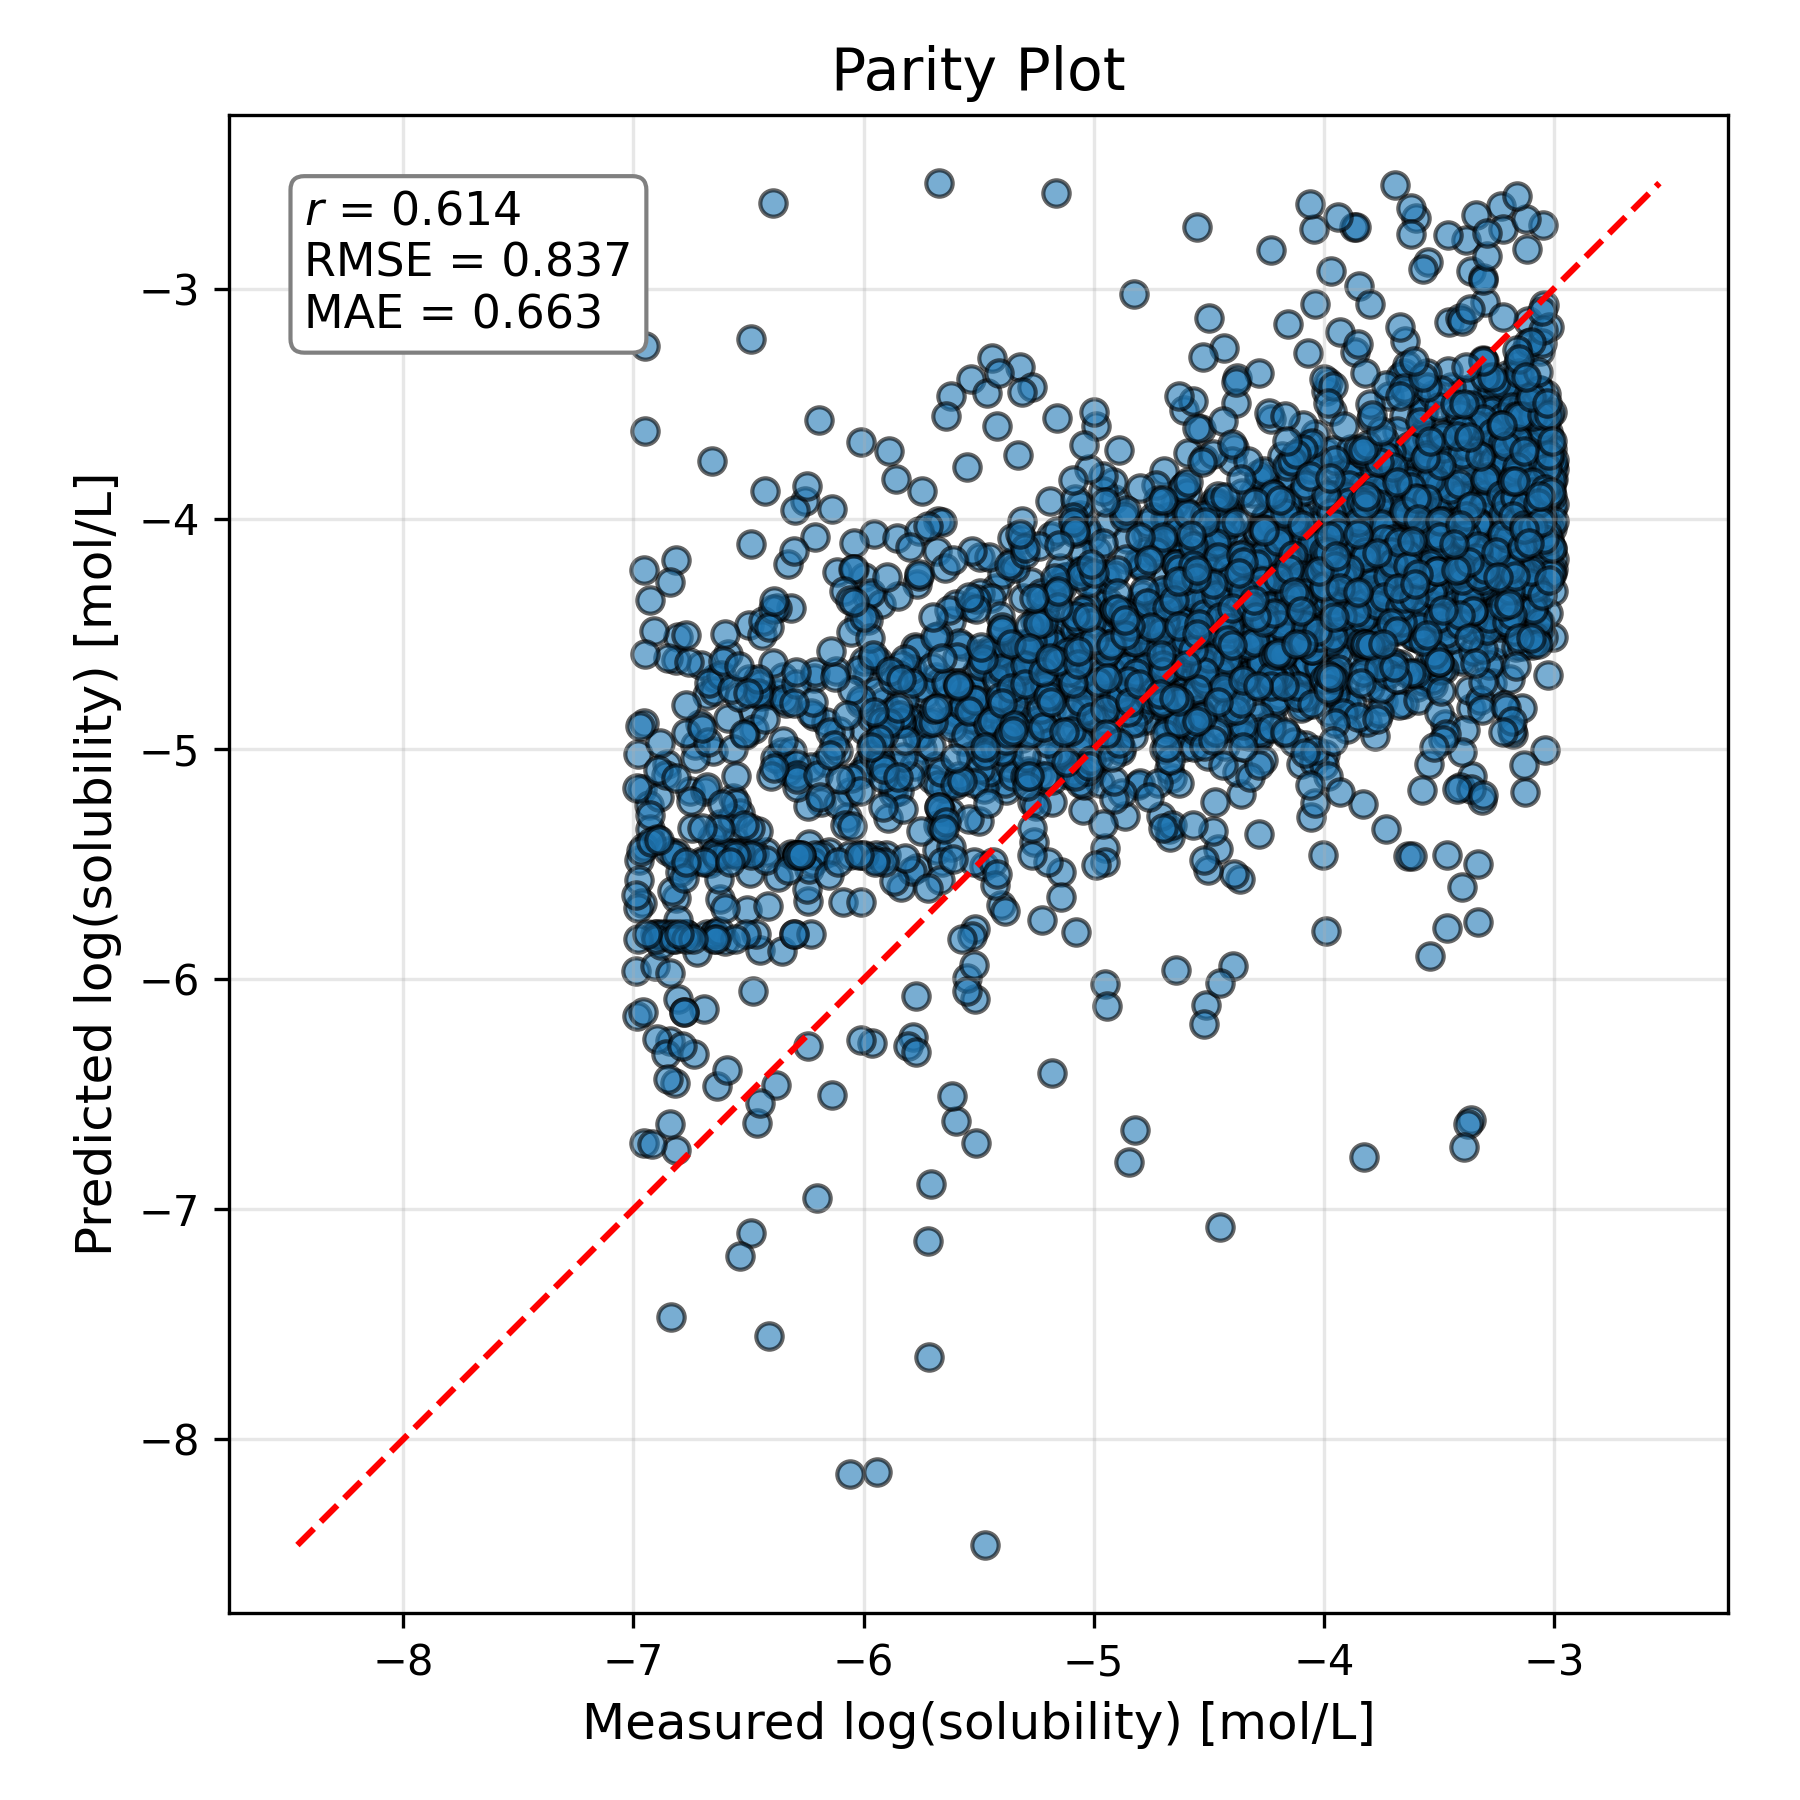
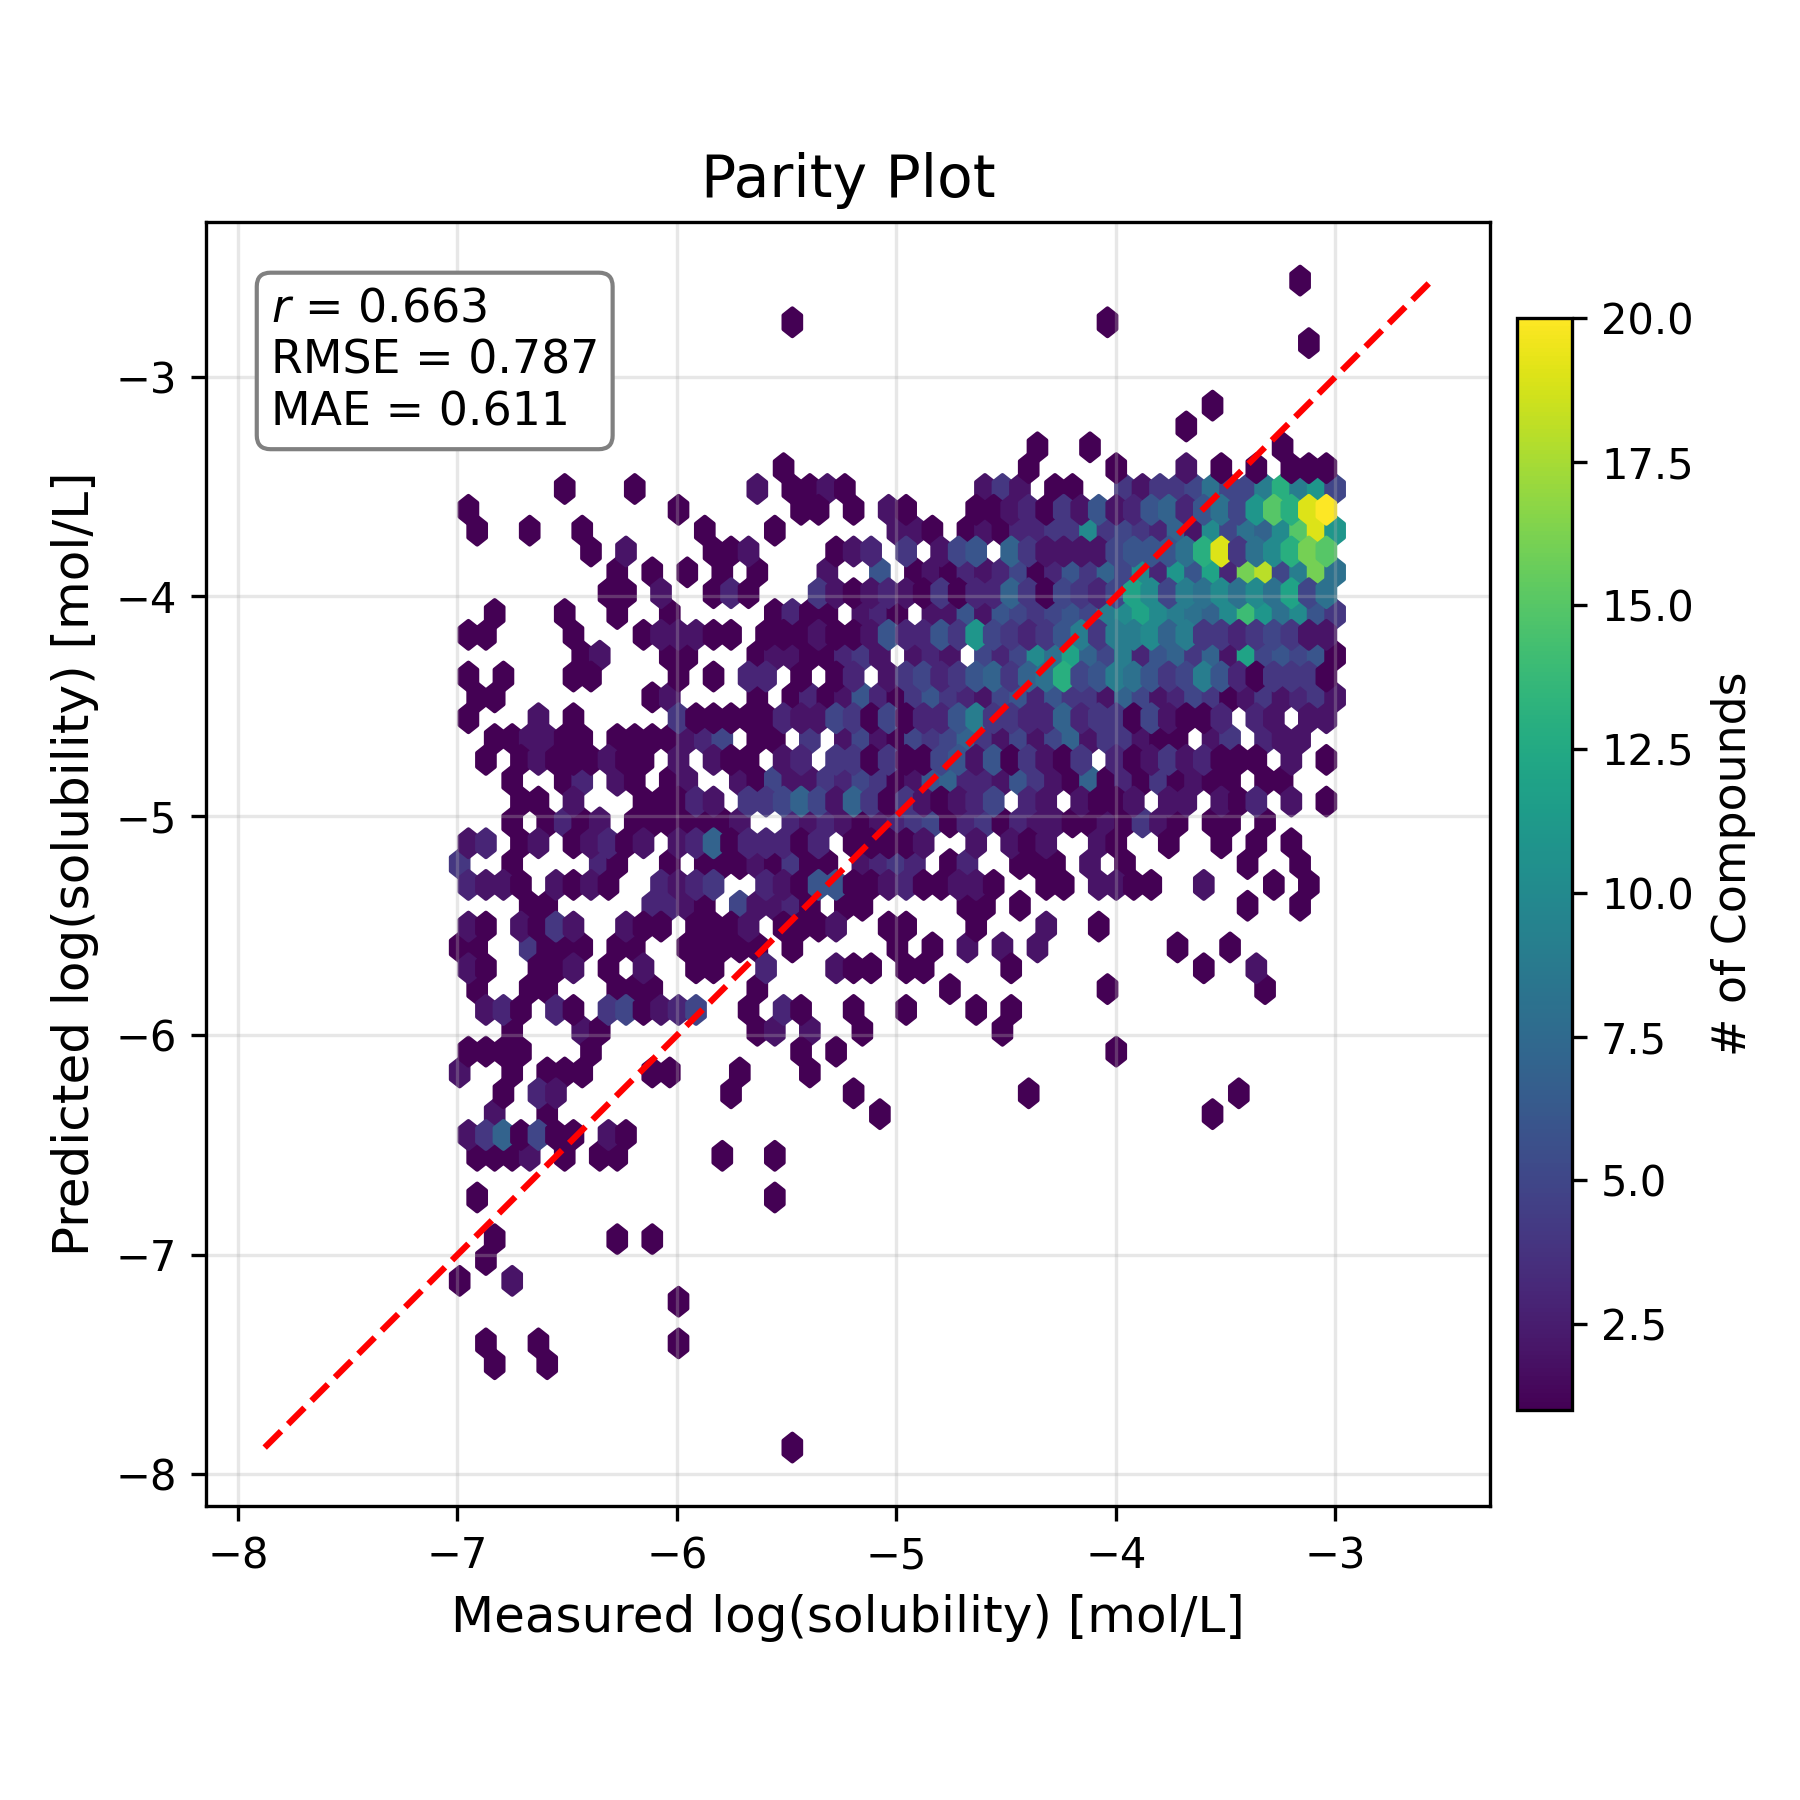
refactor with new feature selection, additional filtering

diff --git a/main.py b/main.py
@@ -1,6 +1,6 @@
 import numpy as np
 import pandas as pd
-from scipy.stats import gaussian_kde, pearsonr
+from scipy.stats import pearsonr
 
 import sympy as sp
 
@@ -10,7 +10,6 @@ from sklearn.metrics import mean_squared_error, mean_absolute_error
 
 from rdkit.Chem import MolFromSmiles
 from rdkit.ML.Descriptors import MoleculeDescriptors
-
 
 DESCRIPTORS = [
     "MolWt",
@@ -135,6 +134,7 @@ DESCRIPTORS = [
     "fr_unbrch_alkane",
     "fr_urea",
 ]
+COUNT_DESCRIPTORS = [c for c in DESCRIPTORS if c.startswith("fr_") or c.startswith("Num")] + ["TPSA"]
 CALCULATOR = MoleculeDescriptors.MolecularDescriptorCalculator(DESCRIPTORS)
 
 
@@ -147,7 +147,7 @@ def _f(smiles):
 
 
 def parity_plot(y_true, y_pred, outname):
-    """Create a parity plot with regression statistics."""
+    """Create a parity plot with hexbin-based density."""
     # Compute regression statistics
     r, _ = pearsonr(y_true, y_pred)
     rmse = np.sqrt(mean_squared_error(y_true, y_pred))
@@ -155,10 +155,26 @@ def parity_plot(y_true, y_pred, outname):
 
     # Create plot
     plt.figure(figsize=(6, 6))
-    plt.scatter(y_true, y_pred, alpha=0.6, edgecolor="k", facecolor="C0", s=40)
+
+    hb = plt.hexbin(
+        y_true,
+        y_pred,
+        gridsize=50,
+        mincnt=1,
+    )
+    cb = plt.colorbar(
+        hb,
+        fraction=0.04,  # width relative to axes
+        pad=0.02,       # gap between plot and colorbar
+        shrink=0.85,     # height scaling
+    )
+    cb.set_label("# of Compounds", fontsize=11)
 
     # 1:1 line
-    lims = [min(y_true.min(), y_pred.min()), max(y_true.max(), y_pred.max())]
+    lims = [
+        min(y_true.min(), y_pred.min()),
+        max(y_true.max(), y_pred.max()),
+    ]
     plt.plot(lims, lims, color="red", linestyle="--", linewidth=1.5)
 
     # Labels and title
@@ -167,7 +183,11 @@ def parity_plot(y_true, y_pred, outname):
     plt.title("Parity Plot", fontsize=14)
 
     # Annotation with statistics
-    stats_text = f"$r$ = {r:.3f}\n" f"RMSE = {rmse:.3f}\n" f"MAE = {mae:.3f}"
+    stats_text = (
+        f"$r$ = {r:.3f}\n"
+        f"RMSE = {rmse:.3f}\n"
+        f"MAE = {mae:.3f}"
+    )
     plt.text(
         0.05,
         0.95,
@@ -185,26 +205,60 @@ def parity_plot(y_true, y_pred, outname):
     plt.tight_layout()
     plt.savefig(f"{outname}.png", dpi=300)
 
+from sklearn.ensemble import RandomForestRegressor
 
-def downsample_to_uniform(df, target_col, random_state=0):
-    rng = np.random.default_rng(random_state)
+def robust_screen_features(df, target_col, force_include=None, n_keep=20):
+    """
+    Screens features using Random Forest importance (captures interactions),
+    while bypassing screening for 'force_include' features.
+    """
+    if force_include is None:
+        force_include = []
+    
+    # 1. Separate "forced" features from "candidate" features
+    # Ensure forced features actually exist in the dataframe
+    valid_force = [f for f in force_include if f in df.columns]
+    missing = set(force_include) - set(valid_force)
+    if missing:
+        print(f"Warning: Forced features not found in DF: {missing}")
+        
+    # Candidates are everything else (excluding target and forced)
+    candidates = [c for c in df.columns if c != target_col and c not in valid_force]
+    
+    # 2. If we already have few enough candidates, just return
+    if len(candidates) + len(valid_force) <= n_keep:
+        print(f"Feature count ({len(candidates) + len(valid_force)}) is below limit ({n_keep}). No screening needed.")
+        return df[valid_force + candidates + [target_col]]
 
-    x = df[target_col].to_numpy()
+    print(f"Screening {len(candidates)} candidate features with Random Forest...")
 
-    # Estimate density of the target distribution
-    kde = gaussian_kde(x)
-    p = kde(x)
+    # 3. Train Random Forest to judge "candidate" usefulness
+    # We use a lightweight forest (100 trees) to gauge importance
+    X = df[candidates]
+    y = df[target_col]
+    
+    rf = RandomForestRegressor(n_estimators=100, n_jobs=-1, random_state=42, verbose=1)
+    rf.fit(X, y)
+    
+    # 4. Select top features to fill the remaining slots
+    slots_remaining = n_keep - len(valid_force)
+    if slots_remaining <= 0:
+        print("Warning: 'force_include' list filled all available slots. Dropping all candidates.")
+        selected_candidates = []
+    else:
+        # Get feature importances and sort indices
+        importances = rf.feature_importances_
+        indices = np.argsort(importances)[::-1] # Descending order
+        top_indices = indices[:slots_remaining]
+        selected_candidates = [candidates[i] for i in top_indices]
+        
+        print(f"Selected top {len(selected_candidates)} candidates via RF Importance:")
+        for i in range(slots_remaining):
+            print(f" - {selected_candidates[i]} (Imp: {importances[indices[i]]:.4f})")
 
-    # Inverse-density acceptance probabilities
-    # Normalize so max acceptance prob = 1
-    accept_prob = 1.0 / p
-    accept_prob /= accept_prob.max()
-
-    # Rejection sampling
-    keep = rng.random(len(df)) < accept_prob
-
-    return df.loc[keep].reset_index(drop=True)
-
+    # 5. Reconstruct DataFrame with Forced + Selected features (target goes first for SISSO)
+    final_cols =  [target_col] + valid_force + selected_candidates
+    return df[final_cols]
 
 def sympy_df_function(expr_str: str):
     # Parse expression
@@ -239,35 +293,54 @@ if __name__ == "__main__":
     import pandas as pd
 
     # data loading
-
     df = pd.read_csv("aqsoldbc.csv")
     print(f"Original dataframe has {df.shape[0]} entries")
+
     # bound to -7 and -3 for applications to drug discovery
     df = df[(df["logS"] < -3) & (df["logS"] > -7)].reset_index(drop=True)
     print(f"Dropping samples outside of bounds reduces to {df.shape[0]} entries")
-    # optional downsample to a uniform distribution
-    # df = downsample_to_uniform(df, "logS")
-    # print(f"Uniform downsampling further reduces to {df.shape[0]} entries")
 
     # feature calculation
-
     feature_df = pd.DataFrame(columns=DESCRIPTORS, data=df["SMILES"].map(_f).to_list())
     feature_df = feature_df.dropna(axis=1)
     df = df.loc[feature_df.index]
     df = pd.concat((df, feature_df), axis=1)
+
+    # filter to drug-like
+    lipinski = (
+        (df["MolWt"] <= 500).astype(int)
+        + (df["NumHAcceptors"] <= 10).astype(int)
+        + (df["NumHDonors"] <= 5).astype(int)
+        + (df["MolLogP"] <= 5).astype(int)
+    ).ge(3)
+    df = df[lipinski].reset_index(drop=True)
+    print(f"Removing Rule of 5 Violators Reduced to {df.shape[0]} entries")
+
+    # feature engineering - convert discrete into density
+    for col in COUNT_DESCRIPTORS:
+        df[f"{col}_norm"] = df[col] / df["HeavyAtomCount"]
+
+    # SISSO treats first column as target, remainder as features
     sisso_df = df.drop(
         columns="SMILES"
-    )  # SISSO treats first column as target, remainder as features
+    )
+
+    # our implementation of feature initial_screening
+    sisso_df = robust_screen_features(
+        sisso_df, 
+        target_col="logS", 
+        force_include=["TPSA_norm", "MolWt", "HeavyAtomCount"], 
+        n_keep=10,
+    )
 
     # model training
     # see: https://github.com/PaulsonLab/TorchSISSO/blob/main/README.md#installation
-
     sm = SissoModel(
         sisso_df,
         use_gpu=True,
-        operators=["+", "-", "*", "/", "log", "pow(2)"],
-        n_term=2,  # terms in final equation - could do a scree plot to determine this
-        initial_screening = ["mi", 0.95],  # use mutual information to eliminate unnecessary features  --> needed if many features used
+        operators=["+", "-", "*", "/", "pow(2)", "log", "sqrt"],
+        n_term=3,  # terms in final equation - could do a scree plot to determine this
+        initial_screening=None,  # done manually
         n_expansion=3,  # hyperparameter, default 3
         k=20,  # hyperparameter, default 20
     )
@@ -275,23 +348,26 @@ if __name__ == "__main__":
     # Run the SISSO algorithm to get the interpretable model with the highest accuracy
     rmse, equation, r2, eqn_terms = sm.fit()
     equation = sympy_df_function(equation)
-
     y_true = df["logS"].values
     y_pred = equation(df)
     parity_plot(y_true, y_pred, "train_parity")
 
-    test_df = pd.read_csv("biogen.csv")  # <-- already bounded
-
-    # test_df = pd.read_csv("ochem.csv")
-    # test_df = test_df[(test_df["logS"] < -3) & (test_df["logS"] > -7)].reset_index(drop=True)
-
-    test_df = test_df[test_df["SMILES"].map(lambda s: MolFromSmiles(s) is not None).to_list()]
-    train_smiles = set(map(CanonSmiles, df["SMILES"]))
-    _original_length = test_df.shape[0]
-    test_df = test_df[~test_df["SMILES"].map(CanonSmiles).isin(train_smiles)]
-    print(f"Filtered {(_original_length - test_df.shape[0])} overlapping molecules from test set.")
-
-    test_features = pd.DataFrame(columns=DESCRIPTORS, data=test_df["SMILES"].map(_f).to_list())
-    test_pred = equation(test_features)
-    test_true = test_df["logS"].values
-    parity_plot(test_true, test_pred, "test_parity")
+    # inference
+    for f in ("biogen", "ochem"):
+        test_df = pd.read_csv(f + ".csv")
+        test_df = test_df[(test_df["logS"] < -3) & (test_df["logS"] > -7)].reset_index(drop=True)
+        test_df = test_df[test_df["SMILES"].map(lambda s: MolFromSmiles(s) is not None).to_list()]
+        train_smiles = set(map(CanonSmiles, df["SMILES"]))
+        _original_length = test_df.shape[0]
+        test_df = test_df[~test_df["SMILES"].map(CanonSmiles).isin(train_smiles)]
+        print(
+            f"Filtered {(_original_length - test_df.shape[0])} overlapping molecules from {f} test set."
+        )
+        test_features = pd.DataFrame(columns=DESCRIPTORS, data=test_df["SMILES"].map(_f).to_list())
+        for col in COUNT_DESCRIPTORS:
+            test_features[f"{col}_norm"] = test_features[col] / test_features["HeavyAtomCount"]
+        test_pred = equation(test_features)
+        print(f"Clipping {(test_pred > -3).astype(int).sum() + (test_pred < -7).astype(int).sum()} predictions")
+        test_pred = test_pred.clip(min=-7, max=-3)
+        test_true = test_df["logS"].values
+        parity_plot(test_true, test_pred, f"{f}_test_parity")
